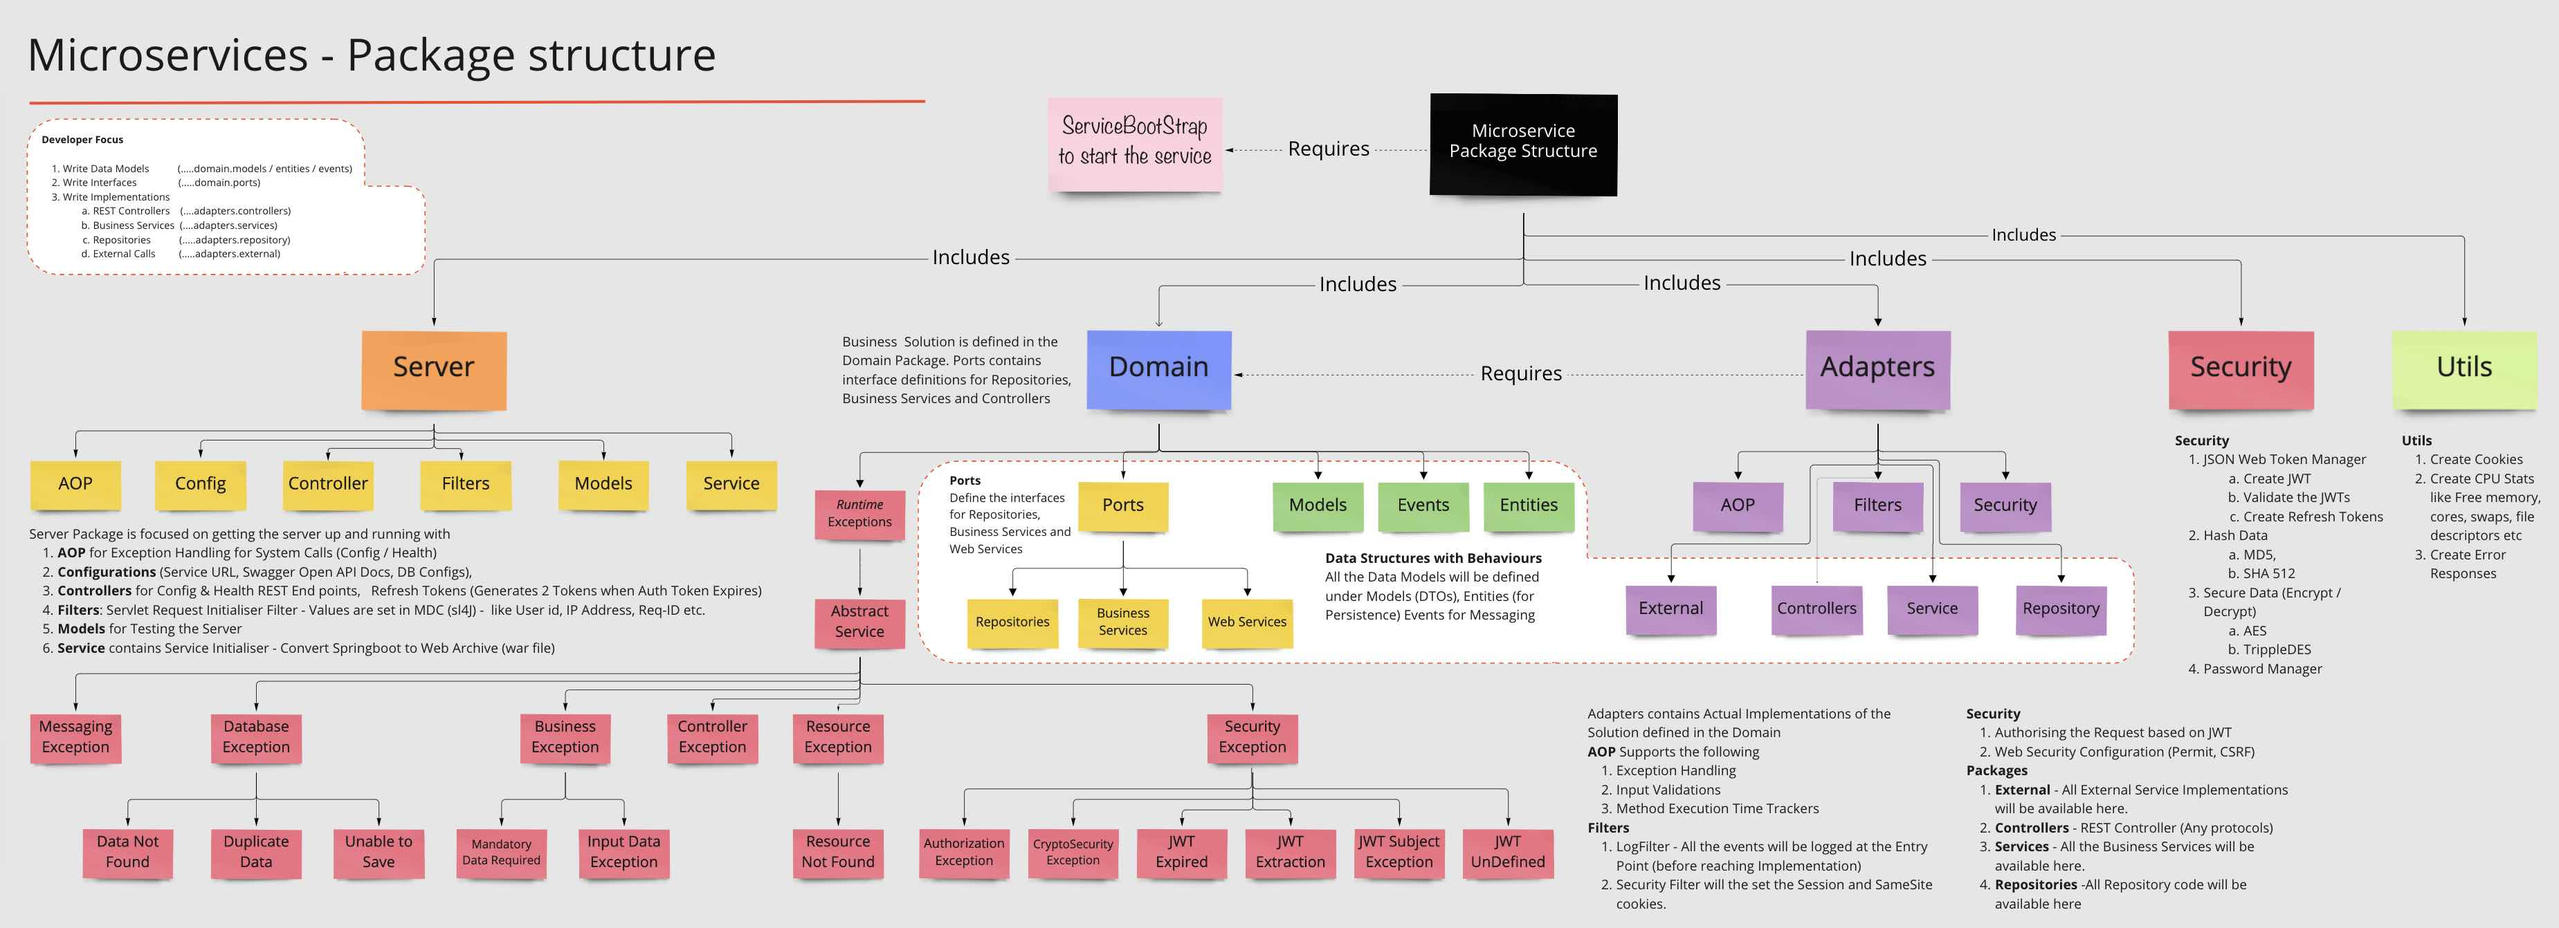
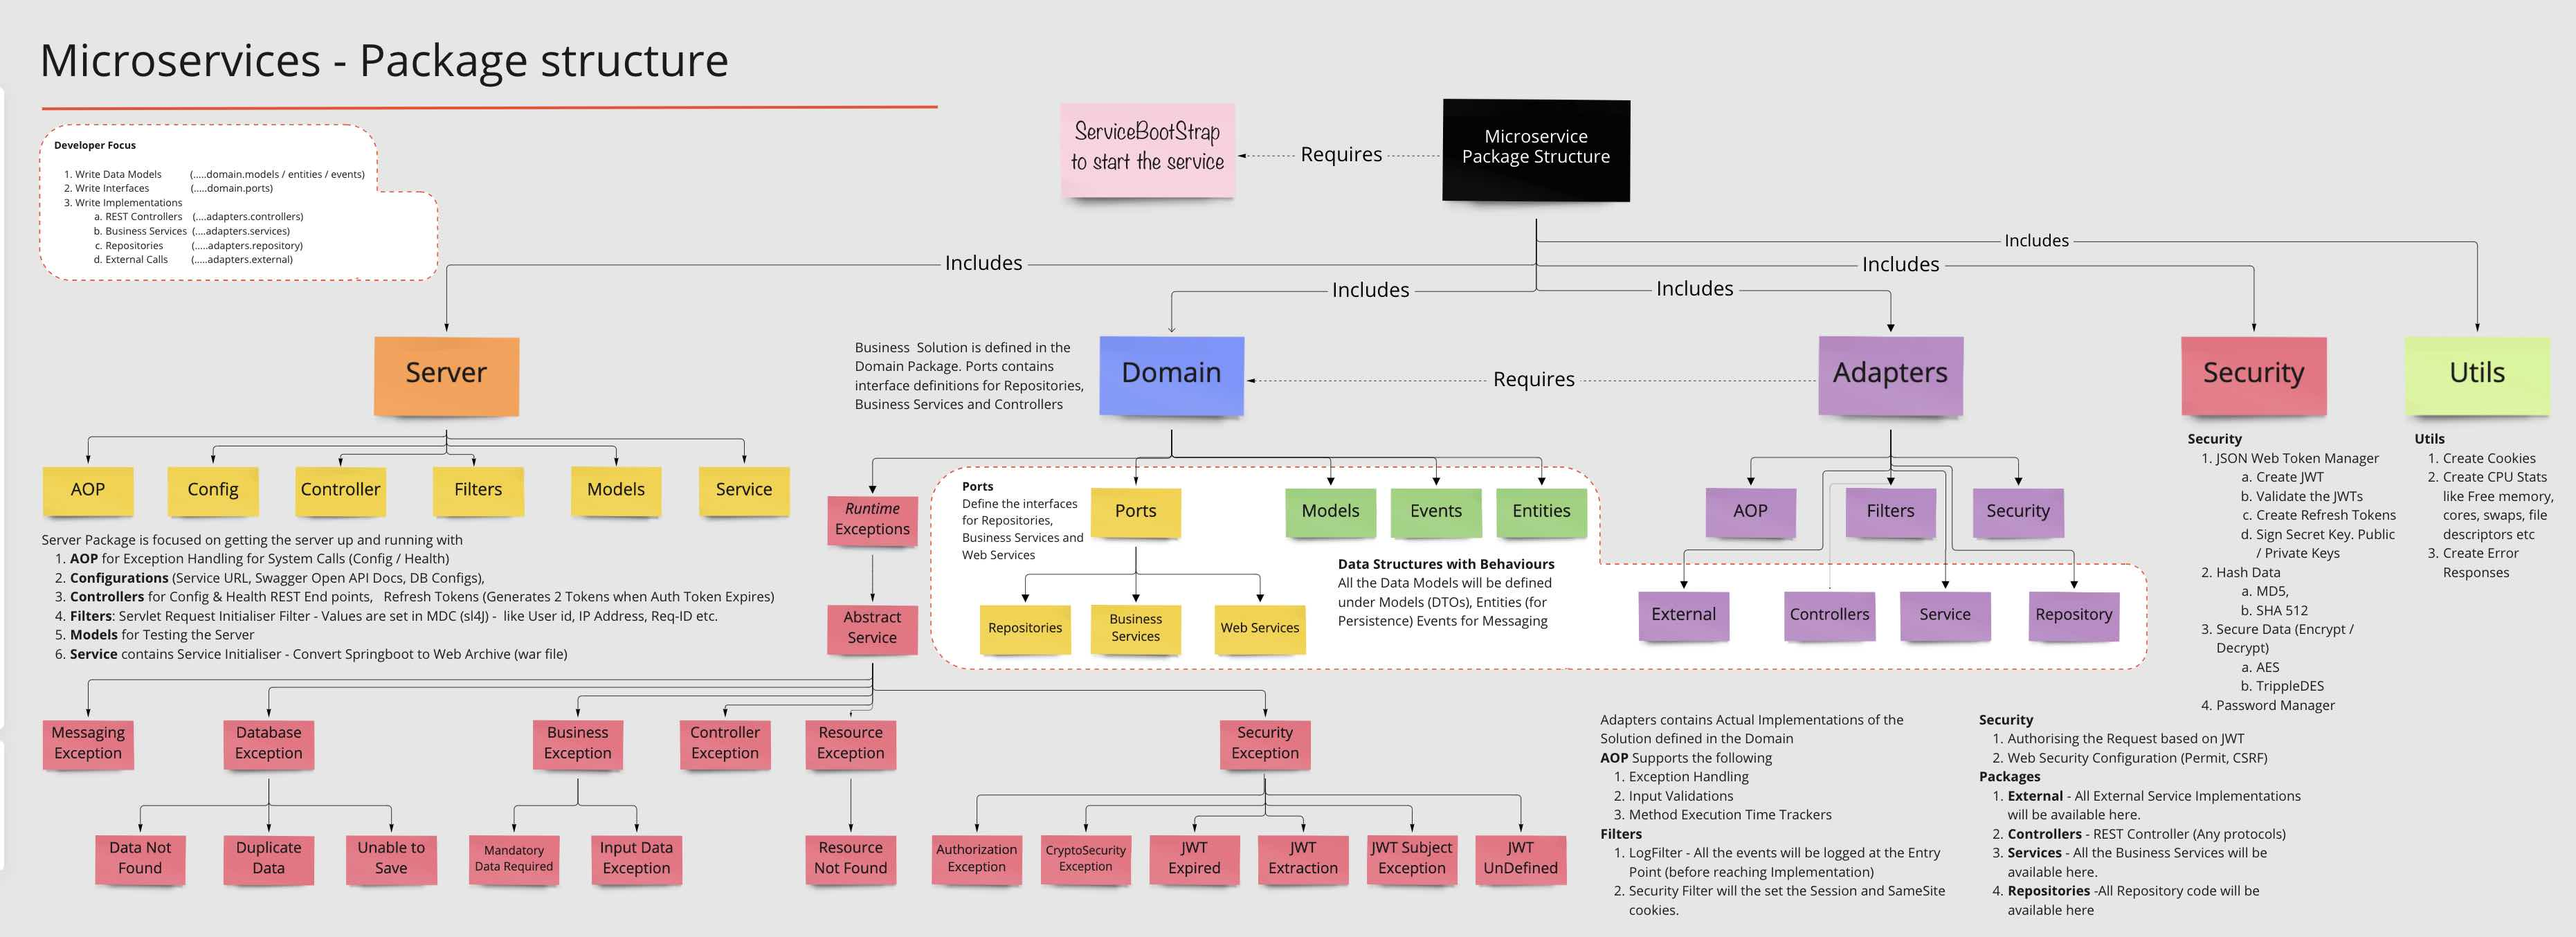
Added Public/Private Key cryptography

diff --git a/src/main/java/io/fusion/air/microservice/server/config/ServiceConfiguration.java b/src/main/java/io/fusion/air/microservice/server/config/ServiceConfiguration.java
@@ -169,6 +169,10 @@ public class ServiceConfiguration implements Serializable {
 	@Value("${server.crypto.private.key:privateKey.pem}")
 	private String cryptoPrivateKeyFile;
 
+	// server.token.issuer=${service.org}
+	@Value("${server.token.issuer}")
+	private String tokenIssuer;
+
 	// server.token.type=1
 	// (Type 1 = secret key, 2 = public / private key)
 	@Value("${server.token.type:1}")
@@ -655,5 +659,12 @@ public class ServiceConfiguration implements Serializable {
 	 */
 	public String getCryptoPrivateKeyFile() {
 		return cryptoPrivateKeyFile;
+	}
+
+	/**
+	 * Returns the Token Issuer
+	 */
+	public String getTokenIssuer() {
+		return tokenIssuer;
 	}
 }

diff --git a/src/main/java/io/fusion/air/microservice/security/JsonWebToken.java b/src/main/java/io/fusion/air/microservice/security/JsonWebToken.java
@@ -486,15 +486,6 @@ public final class JsonWebToken {
      * @return
      */
     public Claims getAllClaims(String _token) {
-    	/**
-		return Jwts
-        		.parser()
-				// .signWith(signingKey)
-        		.setSigningKey(signingKey)
-				// .signWith(signingKey, algorithm)
-				.parseClaimsJws(_token)
-        		.getBody();
-		 */
 		return Jwts.parserBuilder()
 				.setSigningKey(validatorKey)
 				.requireIssuer(issuer)
